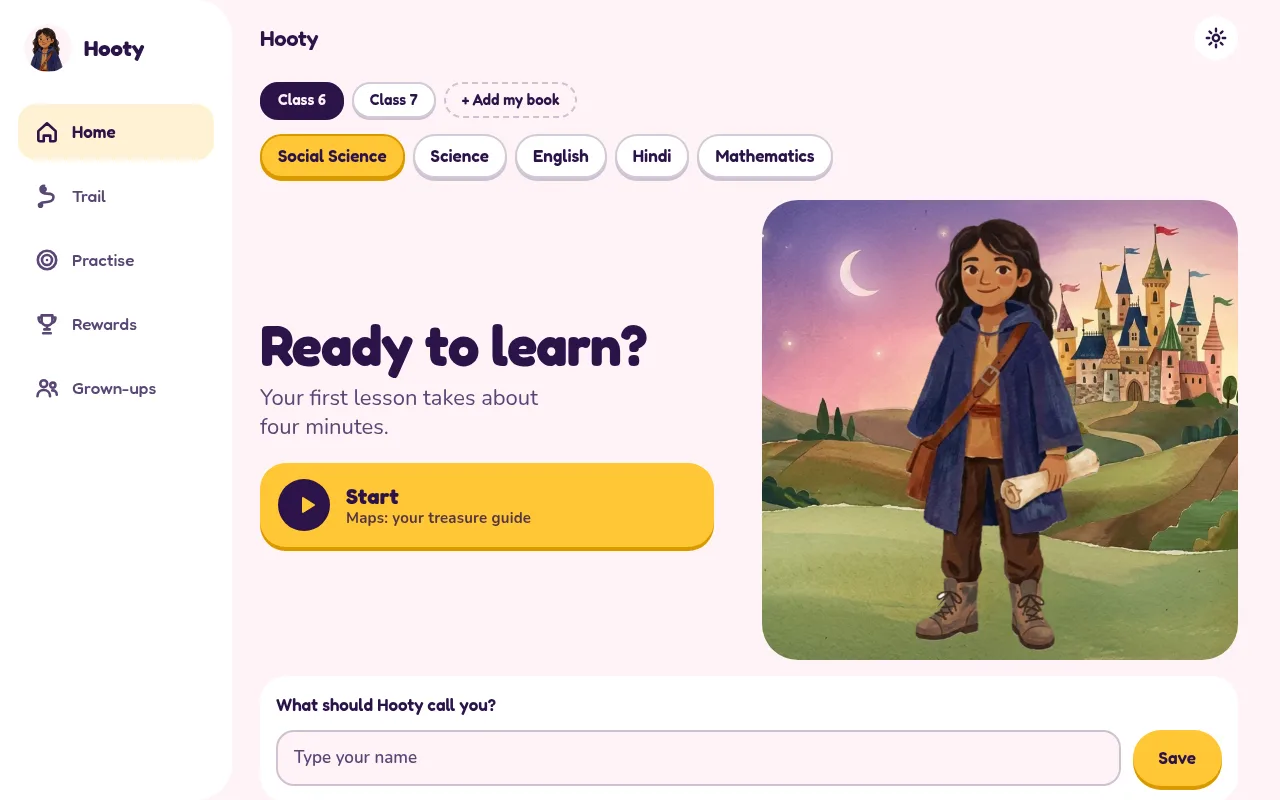
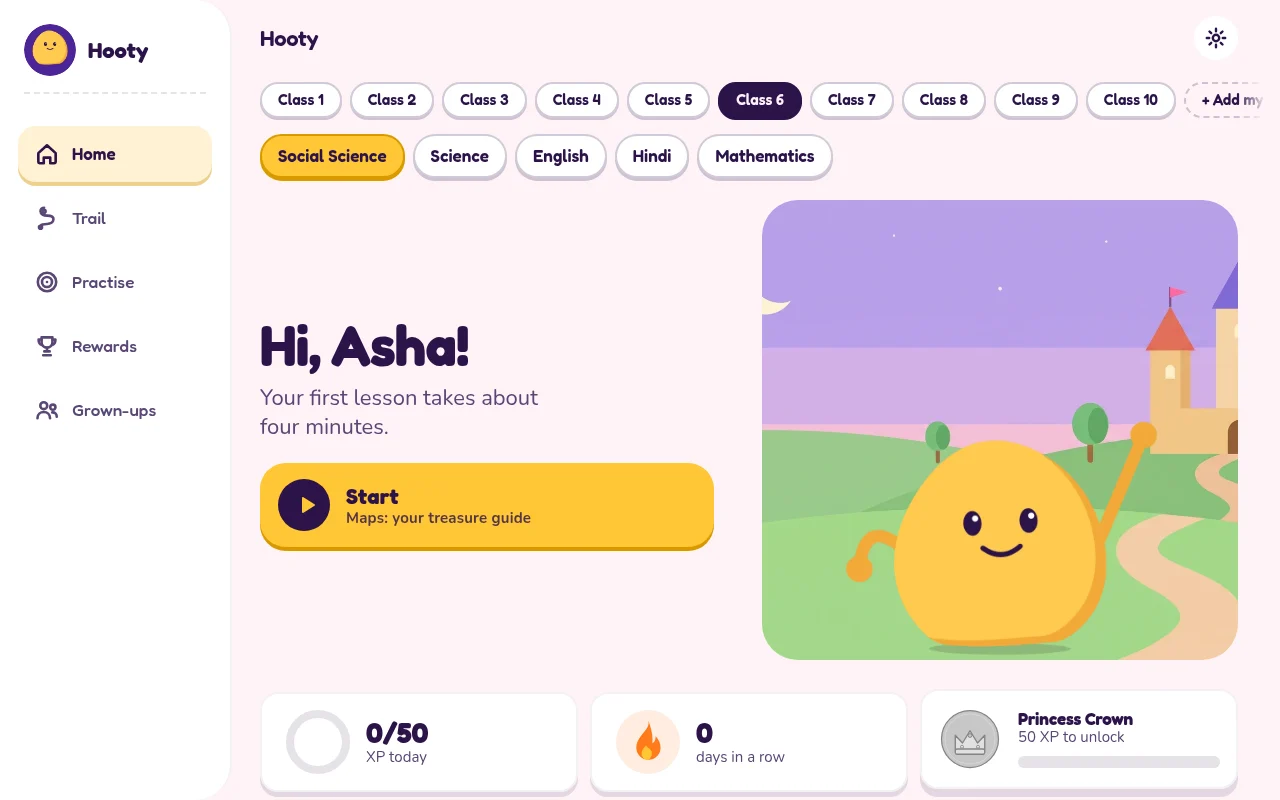
README: new Hooty art, guide wording, fresh screenshots

diff --git a/README.md b/README.md
@@ -1,6 +1,6 @@
 <div align="center">
 
-<img src="public/characters/hooty/snowy3-happy.webp" alt="Hooty, a friendly owl in a blue cape with a satchel and a scroll, wings raised in a cheer" width="260">
+<img src="public/characters/blob/hooty-happy.webp" alt="Hooty, a round sunny-yellow character with a big smile, both arms raised in a cheer" width="260">
 
 # Hooty
 
@@ -16,11 +16,11 @@ No sign-up. No ads. Nothing a child does ever leaves their device.
 
 <br>
 
-<img src="docs/readme/home.webp" alt="Hooty's home screen: a big Start button beside Hooty standing in front of a castle">
+<img src="docs/readme/home.webp" alt="Hooty's home screen: a big Start button beside Hooty waving in front of a cartoon castle on green hills">
 
 ## 🌟 Meet your guide
 
-Hooty, the owl in the blue cape, walks beside the child through every lesson. Lumi, the young explorer, is there too, and each child can pick whichever guide they like in Settings. Either one asks a question that makes you curious, explains the idea in simple words, cheers when you get it, and shows you why when you don't.
+Hooty, our round, sunny-yellow friend, walks beside the child through every lesson. Lumi, the young explorer, is there too, and each child can pick whichever guide they like in Settings. Either one asks a question that makes you curious, explains the idea in simple words, cheers when you get it, and shows you why when you don't.
 
 The aim is simple: a child should understand the idea, not just remember the sentence. And they should still be ready for their school exams.
 
@@ -44,7 +44,7 @@ The aim is simple: a child should understand the idea, not just remember the sen
   </tr>
   <tr>
     <td><img src="docs/readme/trail.webp" alt="A winding trail of lessons shown as stars"><br><sub><b>The trail:</b> every chapter, one small step at a time</sub></td>
-    <td><img src="docs/readme/moonlit.webp" alt="The home screen in a dark theme with a castle at night"><br><sub><b>Moonlit Academy:</b> one of five worlds to choose from</sub></td>
+    <td><img src="docs/readme/moonlit.webp" alt="The home screen in a dark theme: Hooty waving under a full moon beside a wizard castle"><br><sub><b>Moonlit Academy:</b> one of five worlds to choose from</sub></td>
   </tr>
 </table>
 
@@ -114,7 +114,7 @@ To NCERT for the textbooks every lesson is built on, and to the photographers an
 
 <div align="center">
   <br>
-  <img src="public/characters/hooty/snowy3-avatar-idle.webp" alt="Hooty's smiling face" width="84">
+  <img src="public/characters/blob/hooty-avatar-idle.webp" alt="Hooty's smiling face" width="84">
   <br>
   <sub>Made with love, for every child who ever asked "but why?"</sub>
 </div>
